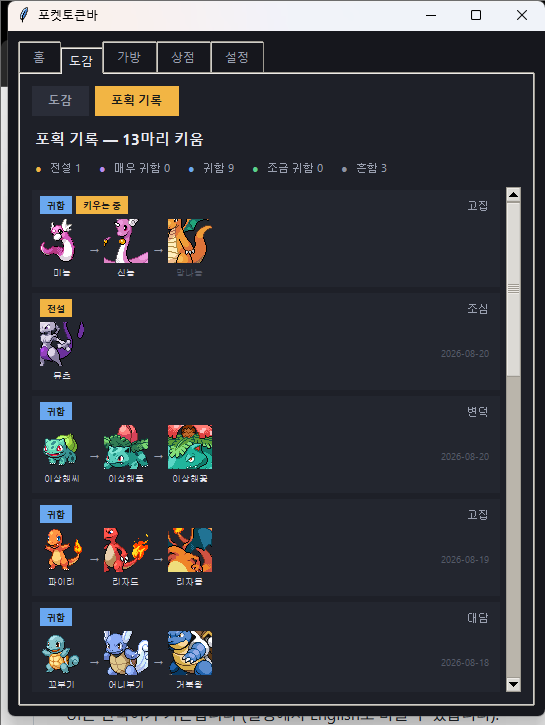
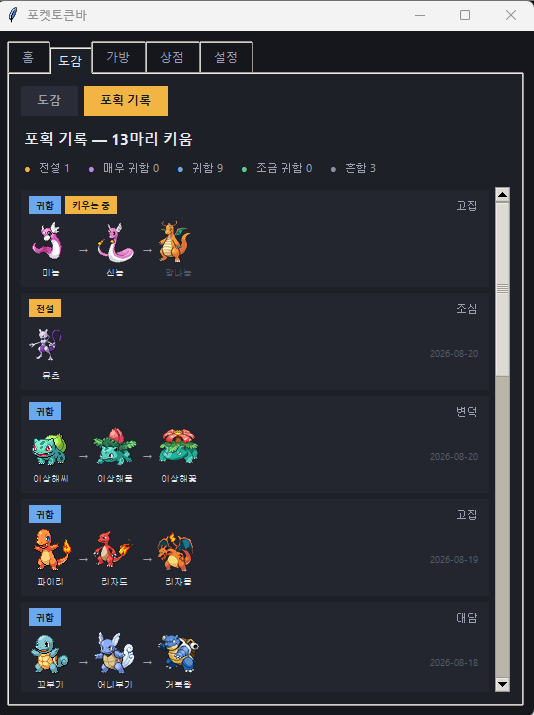
Fit sprites to their cell instead of cropping them
Gen-V sprite canvases run from about 36x52 to 110x98, but the Pokedex cell is a
fixed 52px and the scale was an integer floor: 52 // 110 is 0, clamped to 1, so
anything larger than the cell was pasted at full size and clipped. Eleven of
fourteen sampled species were affected - Venusaur, Charizard, Gyarados, Mewtwo
and Rayquaza showed only a fragment.

Sprites are now letterboxed into the box and never cropped, with a scaling
policy that keeps pixel art readable: integer nearest-neighbour when enlarging,
a smooth filter only when shrinking, and native size in between rather than a
blurry 1.3x. Each animation is also trimmed to the margin its frames share, so
a small sprite is not left rattling around an empty canvas - one box for every
frame, so the animation does not jitter.

Screenshots retaken against the fix, and the floating pet reshot on a plain
backdrop instead of over a browser window.

diff --git a/poketokenbar/app.py b/poketokenbar/app.py
@@ -30,12 +30,26 @@ ITEM_SPRITES = {
 
 
 def _fit(src: Image.Image, size: int) -> Image.Image:
-    """Scale an icon into a size x size box, keeping aspect and pixel crispness."""
+    """Letterbox an image into a size x size box. Never crops.
+
+    Gen-V sprite canvases range from about 36px to 110px, so a fixed cell has to
+    shrink the big ones; anything else clips Rayquaza's head off. Scaling policy
+    keeps pixel art readable: integer factors with nearest-neighbour when
+    enlarging, a smooth filter only when shrinking, and native size in between
+    rather than a blurry 1.3x.
+    """
     scale = min(size / src.width, size / src.height)
-    w, h = max(1, round(src.width * scale)), max(1, round(src.height * scale))
-    resample = Image.NEAREST if scale >= 2 else Image.LANCZOS
+    if scale >= 2:
+        factor = int(scale)                      # crisp doubling / tripling
+        w, h, resample = src.width * factor, src.height * factor, Image.NEAREST
+    elif scale >= 1:
+        w, h, resample = src.width, src.height, Image.NEAREST   # leave it alone
+    else:
+        w = max(1, round(src.width * scale))
+        h = max(1, round(src.height * scale))
+        resample = Image.LANCZOS
     out = Image.new("RGBA", (size, size), (0, 0, 0, 0))
-    resized = src.resize((w, h), resample)
+    resized = src.resize((w, h), resample) if (w, h) != src.size else src
     out.paste(resized, ((size - w) // 2, (size - h) // 2), resized)
     return out
 
@@ -429,19 +443,25 @@ class App:
                     img.seek(img.tell() + 1)
             except EOFError:
                 pass
+            # Trim the margin the whole animation shares, so a small sprite is
+            # not left rattling around inside a mostly-empty canvas. Using one
+            # box for every frame keeps the animation from jittering.
+            box = None
+            for f in frames:
+                b = f.getbbox()
+                if b is None:
+                    continue
+                box = b if box is None else (
+                    min(box[0], b[0]), min(box[1], b[1]),
+                    max(box[2], b[2]), max(box[3], b[3]),
+                )
+            if box:
+                frames = [f.crop(box) for f in frames]
             self._frame_cache[key] = frames
         raw = self._frame_cache[key]
         if not raw:
             return []
-        scale = max(1, size // max(raw[0].width, raw[0].height))
-        out = []
-        for f in raw:
-            w, h = f.width * scale, f.height * scale
-            canvas = Image.new("RGBA", (size, size), (0, 0, 0, 0))
-            resized = f.resize((w, h), Image.NEAREST)
-            canvas.paste(resized, ((size - w) // 2, (size - h) // 2), resized)
-            out.append(canvas)
-        return out
+        return [_fit(f, size) for f in raw]
 
     def egg_frames(self, size: int) -> list[Image.Image]:
         """A simple drawn egg, used before the companion hatches."""

diff --git a/poketokenbar/__init__.py b/poketokenbar/__init__.py
@@ -1,3 +1,3 @@
 """PokeTokenBar for Windows — raise Pokemon with your Claude Code tokens."""
 
-__version__ = "0.1.0"
+__version__ = "0.1.1"
